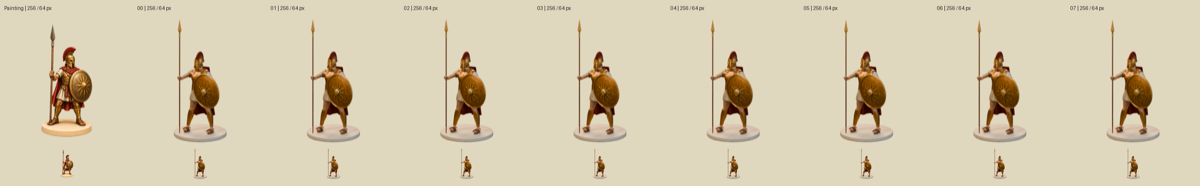
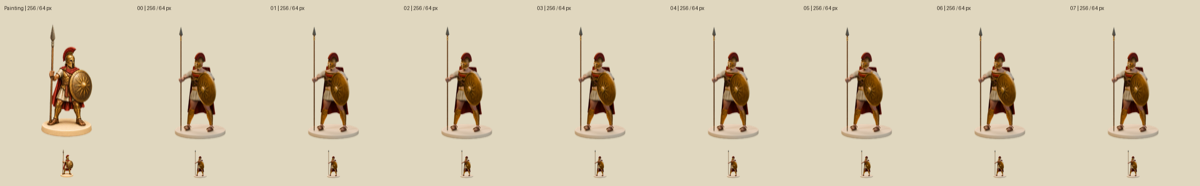
3D spearman interim review images

diff --git a/tools/art/anim3d/review/log.md b/tools/art/anim3d/review/log.md
@@ -7,3 +7,6 @@
 - Hunyuan3D mini skipped: sandbox has no Metal/MPS, so the requested sub-20-minute Apple GPU path cannot be tested here; CPU generation would exceed the light local-work constraint.
 - nice -n 10 is invoked as requested, but macOS sandbox denies setpriority; Blender thread limit remains four. Thumbnail cache writes outside resources are denied and nonfatal.
 - Read lead FEEDBACK.md: Sam says direction is right; priority is premium surface richness. Reworking explicit muscle cuirass, heavier anatomy, iron spear fittings, cream stone, larger framing and baked AO/curvature wear. Existing e-strips are interim, not approval-ready.
+- System asset pack installed successfully (280,737,770 bytes, SHA256 b542127a8e25547c7c29c19f2d1d2adb9a664c80396ecd694095dbc8028a0107); using CC0 high-poly eyes and young male skin on MPFB UVs.
+- Revised c emitted: explicit forged muscle armour, stronger MPFB arm/shoulder targets, wider red cloak, turned shield, iron fittings, cream stone; still below painting's authored-detail richness. Baked 4 x AO and 4 x curvature maps at 512 px.
+- First e-death emitted then rejected shield/base intersection; added an attached shield control that settles face-up onto the base and freezes the last two samples. Re-rendering all five clips with revised model and 384 px / 24-sample CPU previews.
